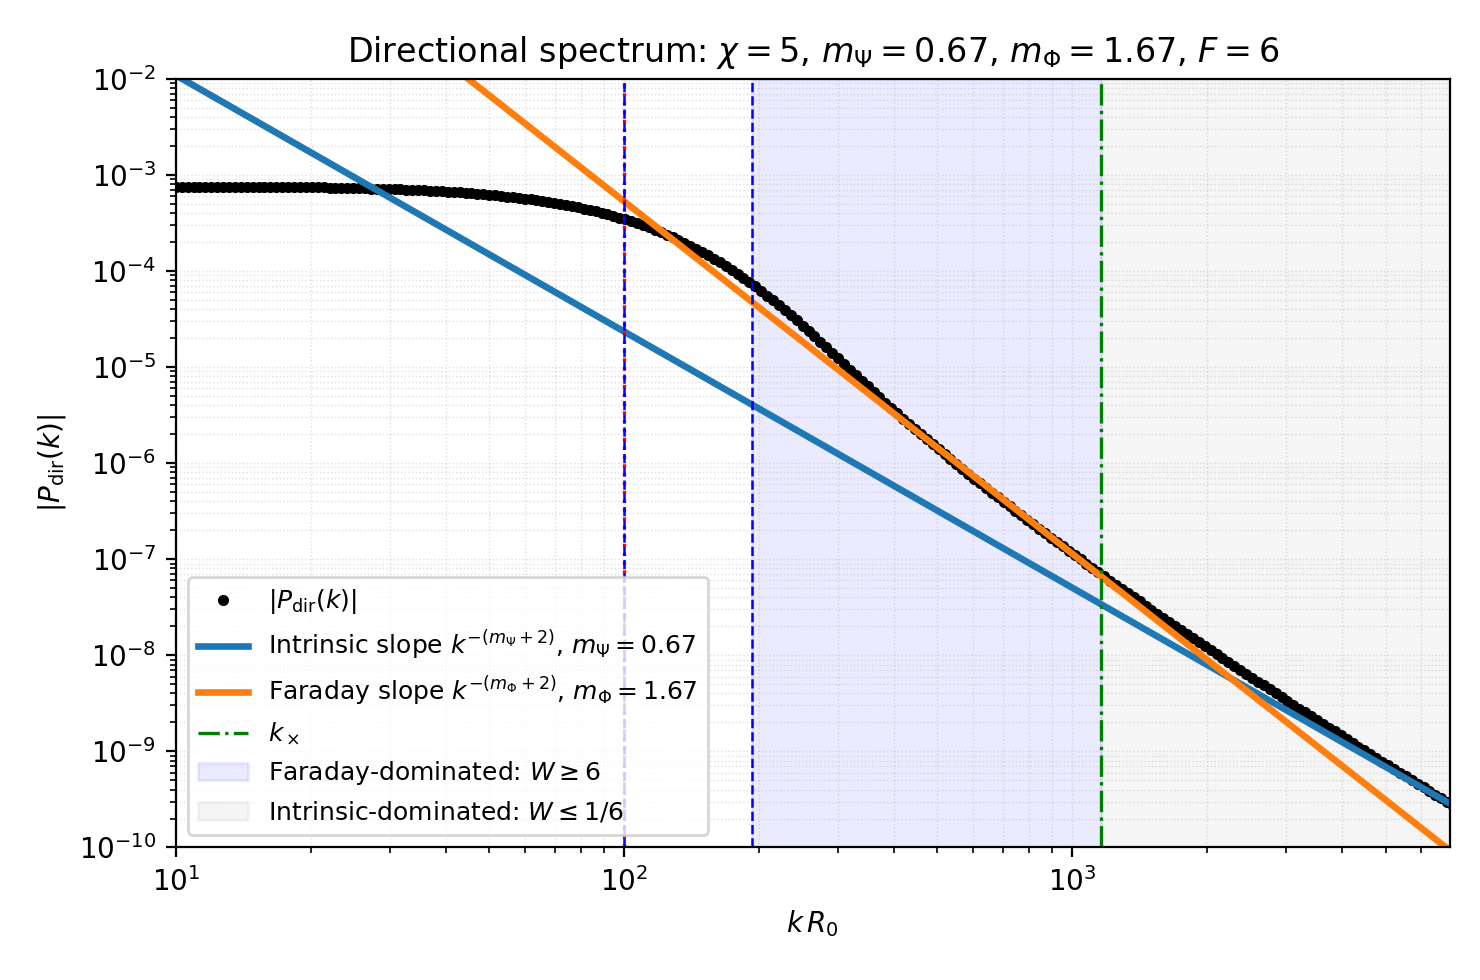
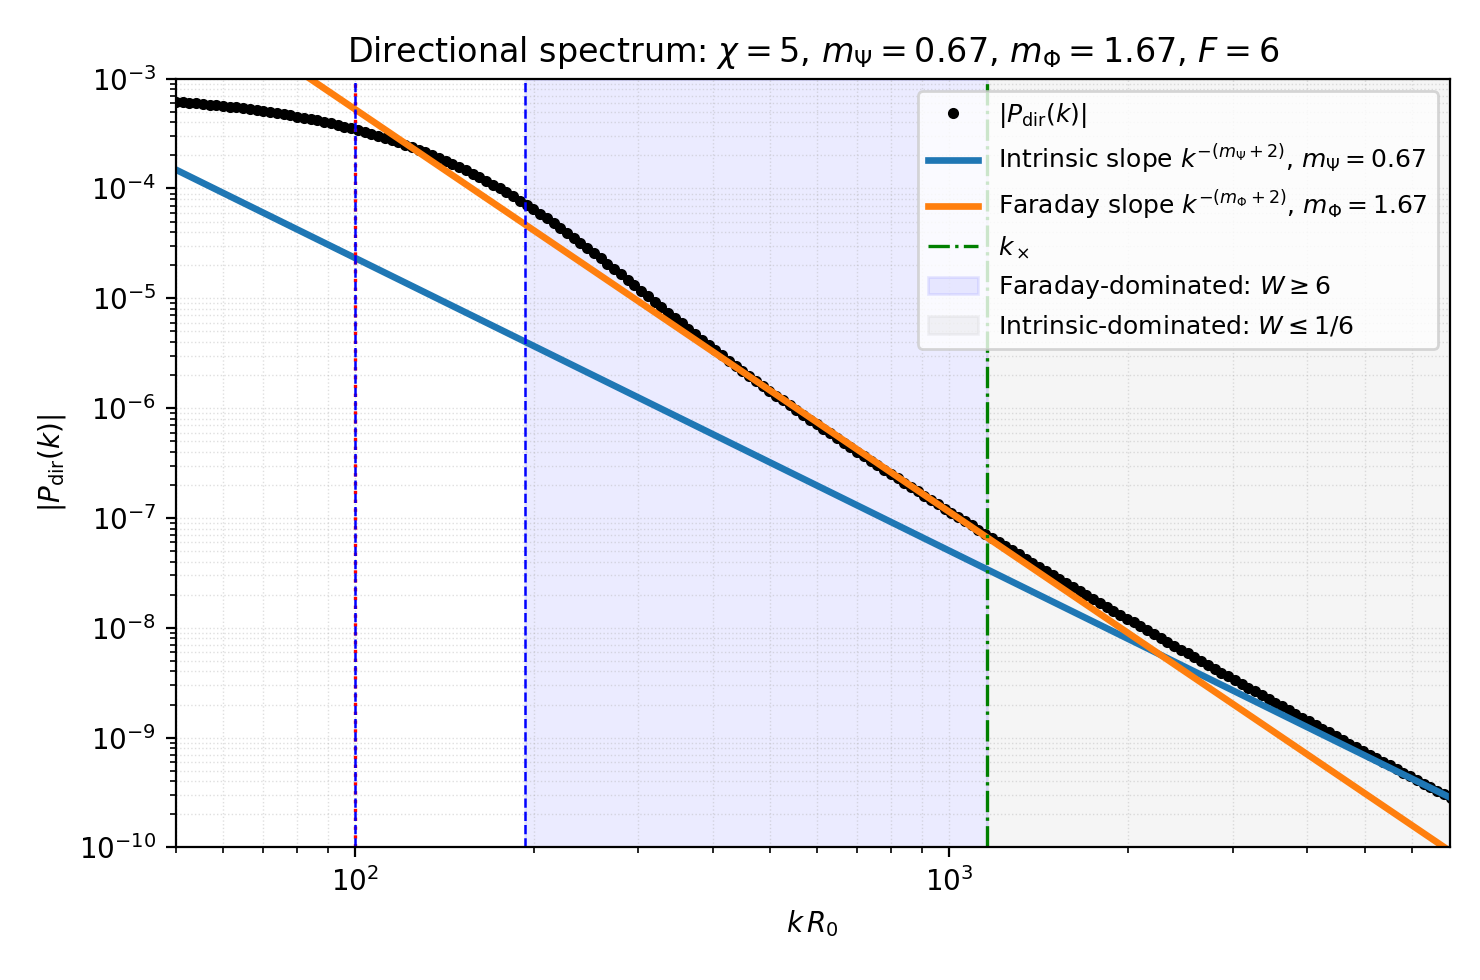
Adjusted the figure scaling

diff --git a/compare_measures/directional_spectrum/theor_prediction_director/henkel_assymptotics.py b/compare_measures/directional_spectrum/theor_prediction_director/henkel_assymptotics.py
@@ -224,8 +224,8 @@ def plot_Pdir_with_asymptotics(
         rf"$F={dominance_factor:g}$"
     )
     
-    ax.set_ylim(1e-10, 1e-2)
-    ax.set_xlim(1e1, lo)
+    ax.set_ylim(1e-10, 1e-3)
+    ax.set_xlim(kmin, lo)
     
     y_top = ax.get_ylim()[1]
     # ax.text(scales["k_inert_min"], y_top*0.8, r"$k_{\rm inert,min}$", color="red",
@@ -293,7 +293,7 @@ def main():
         A_P=A_P, R0=R0, m_psi=m_psi,
         r_phi=r_phi, m_phi=m_phi,
         chi=chi,
-        kmin=1e1, kmax=1e6, Nk=380,#2.5e4
+        kmin=5e1, kmax=1e6, Nk=380,#2.5e4
         dominance_factor=6.0,
         eta_inert=10.0,
         save_npz="Pdir_demo.npz",
